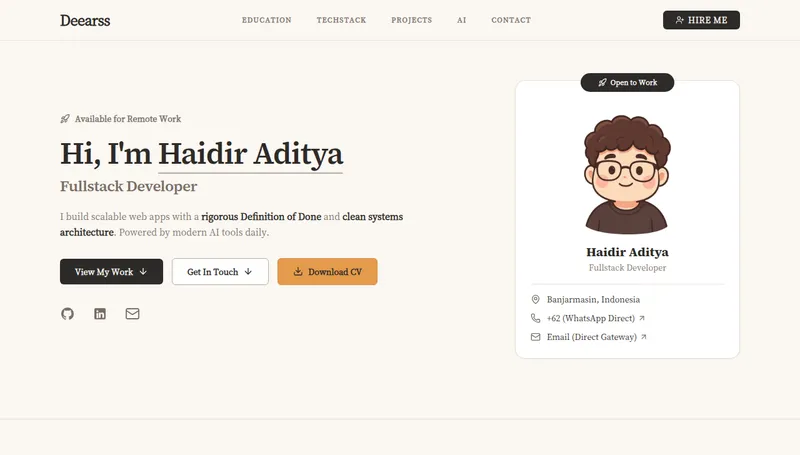
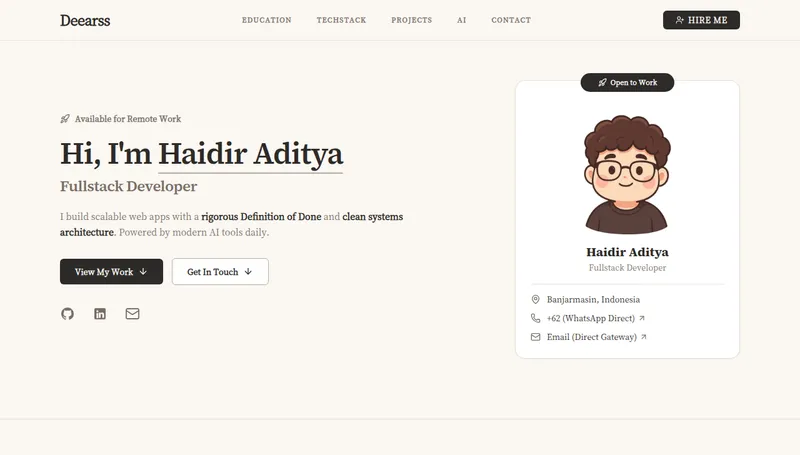
fix(hero): sembunyiin tombol Download CV sampai CV asli siap
File CV-nya masih placeholder ("INI BUKAN CV ASLI"), jadi file-nya
dihapus dan tombolnya digantung ke konstanta CV_URL. Selama nilainya null,
tombolnya nggak tampil. Thumbnail projek web ini ikut dipotret ulang.

Changed region(s): [[0.3438, 0.5538, 0.5, 0.6462]]

diff --git a/components/hero/railway-hero.tsx b/components/hero/railway-hero.tsx
@@ -12,6 +12,10 @@ import {
   Rocket,
 } from "lucide-react";
 
+// Path CV yang bisa diunduh (taruh PDF-nya di public/). Biarin null selama
+// CV aslinya belum siap: tombol "Download CV" otomatis ngumpet.
+const CV_URL: string | null = null;
+
 export function RailwayHero() {
   const scrollTo = (e: React.MouseEvent<HTMLAnchorElement>, id: string) => {
     e.preventDefault();
@@ -87,14 +91,16 @@ export function RailwayHero() {
                 <ArrowDown className="size-3.5 sm:size-4" />
               </a>
 
-              <a
-                href="/cv-haidir-aditya.pdf"
-                download="CV-Haidir-Aditya.pdf"
-                className="order-1 w-full sm:order-3 sm:w-auto mb-2.5 sm:mb-0 inline-flex items-center justify-center gap-2 px-0 sm:px-6 py-2 sm:py-2.5 rounded-md bg-[#e49a4c] hover:bg-[#d88d3e] text-[#2D2A28] border border-[#d88d3e] font-semibold text-[0.8rem] sm:text-[0.88rem] transition-all shadow-xs active:scale-95"
-              >
-                <Download className="size-3.5 sm:size-4 text-[#2D2A28]" />
-                <span>Download CV</span>
-              </a>
+              {CV_URL && (
+                <a
+                  href={CV_URL}
+                  download="CV-Haidir-Aditya.pdf"
+                  className="order-1 w-full sm:order-3 sm:w-auto mb-2.5 sm:mb-0 inline-flex items-center justify-center gap-2 px-0 sm:px-6 py-2 sm:py-2.5 rounded-md bg-[#e49a4c] hover:bg-[#d88d3e] text-[#2D2A28] border border-[#d88d3e] font-semibold text-[0.8rem] sm:text-[0.88rem] transition-all shadow-xs active:scale-95"
+                >
+                  <Download className="size-3.5 sm:size-4 text-[#2D2A28]" />
+                  <span>Download CV</span>
+                </a>
+              )}
             </div>
 
             {/* Three Quick Social and Direct Contact Icons (Borderless, Centered on mobile) */}

diff --git a/PROGRESS.md b/PROGRESS.md
@@ -70,6 +70,7 @@ Dokumentasi ini dibuat untuk merekam status pengerjaan website portofolio **Haid
     - Di layar desktop: Urutan tetap berjajar horizontal (*View My Work* -> *Get In Touch* -> *Download CV*).
     - Khusus mode mobile: Tombol *Download CV* otomatis naik ke posisi paling atas (`order-1 w-full`), diberikan jarak ekstra lega (`mb-2.5`), sedangkan tombol *View My Work* dan *Get In Touch* berada di bawahnya membagi baris secara simetris (`flex-1`).
     - Skema warna: *View My Work* (solid charcoal `#2D2A28`), *Get In Touch* (outline stone `#B8AEA4`, hover putih terang), dan *Download CV* (almond hangat `#e49a4c`).
+    - **Per 4 Okt 2026 tombol *Download CV* disembunyiin** karena CV aslinya belum ada (file placeholder-nya udah dihapus). Buat munculin lagi: taruh PDF CV asli di `public/`, lalu isi konstanta `CV_URL` di `components/hero/railway-hero.tsx` (misal `"/cv-haidir-aditya.pdf"`).
   - **Ikon Sosial Tanpa Kotak**: Tiga ikon (GitHub `@Deearss`, LinkedIn, Email relay) borderless langsung dapat diklik dengan ukuran lebih besar (`w-5 h-5 sm:w-6 sm:h-6`).
   - **Tipografi & Ikon Simetris Mobile**: Khusus tampilan mobile (`< sm`), header status, judul utama, role, tagline, serta deretan tombol sosial diformat rata tengah (`items-center text-center justify-center`) agar harmonis dan simetris dengan tombol aksi dan kartu profil di bawahnya. Pada layar desktop (`sm:`), perataan tetap rata kiri elegan.
   - **Background Canvas Bersih (Solid Warm Pebble)**: Berdasarkan evaluasi visual langsung, tekstur grafis dibatalkan demi mempertahankan estetika minimalis yang tenang, lapang, dan kontras tajam dengan warna dasar `#FAF7F2` tanpa noise/glitch.
@@ -201,7 +202,7 @@ Dokumentasi ini dibuat untuk merekam status pengerjaan website portofolio **Haid
 - **Projek ke-4 di katalog**: web portofolio ini sendiri, dengan tombol "View Source on GitHub" (repo `Deearss/portfolio-v2` publik; repo 3 demo lainnya privat). Thumbnail `public/showcase/portfolio.webp` dipotret pakai fungsi `potret()` dari `scripts/render-og.mjs`. Dots katalog sekarang nandain kartu terakhir pas track mentok kanan.
 - **Metadata**: keyword era freelance (`Freelance Indonesia`, `Systems Designer`, `Web Performance Optimization`, dll) diganti; `twitter:creator "@Deearss"` dibuang (akun X-nya belum dikonfirmasi punya Dier). Pesan otomatis tombol WhatsApp/Email diganti dari "discuss a project" (bahasa klien freelance) jadi soal lowongan.
 - **Link preview produksi masih versi lama**: selama `wip/v2-redesign` belum di-merge, link `deearss.netlify.app` di WhatsApp/sosmed masih nampilin judul "Systems & Software Engineer" + deskripsi Indonesia era freelance.
-- **Blocker yang masih ada**: `public/cv-haidir-aditya.pdf` masih placeholder ("INI BUKAN CV ASLI"). Wajib diganti CV asli sebelum merge ke `main`.
+- **CV**: placeholder "INI BUKAN CV ASLI" dihapus dan tombol *Download CV* disembunyiin lewat `CV_URL = null` sebelum merge ke `main`. Tinggal nunggu PDF CV asli dari Dier.
 
 ---
 
